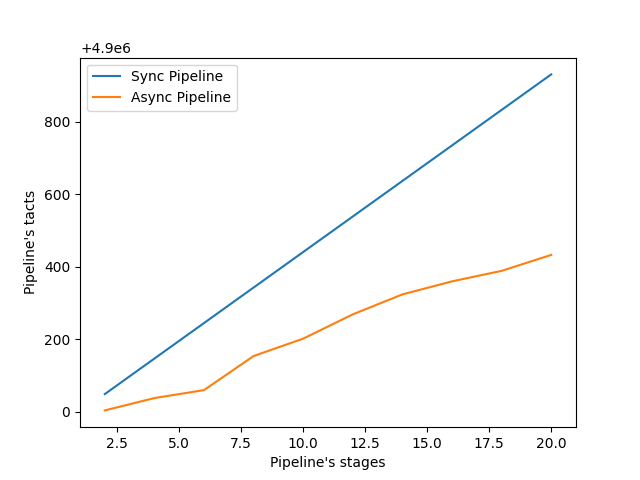
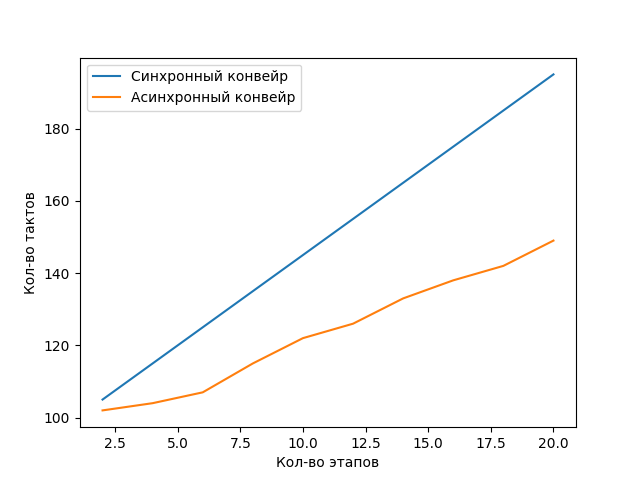
Finished 2nd lab

diff --git a/Sem-2/Lab-2/src/asyncConv_v3.py b/Sem-2/Lab-2/src/asyncConv_v3.py
@@ -1,145 +1,93 @@
 #!/usr/bin/env python3
+import random
+import datetime
+import matplotlib.pyplot as plt
 
-int main(int argc, char **argv) {
-  int i = 0;
+min_time = 1
+max_time = 5
+items_count = 20
+j = 0
 
-  long int tact = 1;
+random.seed(datetime.datetime.now)
+stages = [cnt for cnt in range(2,22,2)]
+pipeline_times = [0 for cnt in range(30)]
+pipeTimeArr = [[0 for cnt in range(10)] for cnt in range(2)]
 
-  long int last_tact = tact;
+for pipeline_length in range(2, 22, 2):
+	tact = 1
+	last_tact = tact
+	items_complete = 0
+	async_pipeline_time = 0
+	last_items_complete = 0
+	items_left = items_count
+	slowly_pipeline_step_time = 0
 
-  int min_time = 1;
-  int max_time = 50;
+	for i in range(pipeline_length):
+		pipeline_times[i] = random.randint(min_time, max_time)
+		if pipeline_times[i] > slowly_pipeline_step_time:
+			slowly_pipeline_step_time = pipeline_times[i]
 
-  int pipeline_length = argv[1] ? atoi(argv[1]) : 5;
-  if (pipeline_length <= 0) return 253;
+	sync_pipeline_time = slowly_pipeline_step_time * (pipeline_length + items_count - 1)
+	pipeline_status = [[0 for cnt in range(pipeline_length)] for cnt in range(2)]
 
-  long int items_count = 100000;
+	for i in range(pipeline_length):
+		pipeline_status[0][i] = -1
+		pipeline_status[1][i] = 0
 
-  long int items_left = items_count;
+	while (True):
+		if (last_items_complete != items_complete):
+			async_pipeline_time += tact - last_tact
+			last_tact = tact
+			last_items_complete = items_complete
 
-  long int items_complete = 0;
 
+		if (items_complete == items_count):
+			break
+		if (pipeline_length == 1):
+			if (pipeline_status[0][0] <= 0 and not pipeline_status[1][0] and items_left):
+				--items_left
+				pipeline_status[0][0] = pipeline_times[0] - 1
+				pipeline_status[1][0] = 1
+			if (pipeline_status[0][0] <= 0 and pipeline_status[1][0]):
+				++items_complete
+				pipeline_status[1][0] = 0
+		else:
+			for i in range(pipeline_length - 1, -1, -1):
+				if (i == 0):
+					if (pipeline_status[0][i] <= 0 and not pipeline_status[1][i] and items_left):
+						--items_left
+						pipeline_status[0][i] = pipeline_times[i] - 1
+						pipeline_status[1][i] = 1
+				elif (i == pipeline_length - 1):
 
-  long int last_items_complete = 0;
+					if (pipeline_status[0][i] <= 0 and pipeline_status[1][i]):
+						items_complete += 1
+						pipeline_status[1][i] = 0
 
+					if (not pipeline_status[1][i]):
+						if (pipeline_status[0][i - 1] <= 0 and pipeline_status[1][i - 1]):
+							pipeline_status[1][i - 1] = 0
+							pipeline_status[1][i] = 1
+							pipeline_status[0][i] = pipeline_times[i]
+				else:
+					if (not pipeline_status[1][i]):
+						if (pipeline_status[0][i - 1] <= 0 and pipeline_status[1][i - 1]):
+							pipeline_status[1][i - 1] = 0
+							pipeline_status[1][i] = 1
+							pipeline_status[0][i] = pipeline_times[i]
 
-  long int slowly_pipeline_step_time = 0;
+		for i in range(pipeline_length):
+			pipeline_status[0][i]-=1
+		tact+=1
 
-  long int sync_pipeline_time = 0;
-  long int async_pipeline_time = 0;
+	print(pipeline_length, "\t", sync_pipeline_time, "\t", async_pipeline_time)
+	pipeTimeArr[0][j] = sync_pipeline_time
+	pipeTimeArr[1][j] = async_pipeline_time
+	j += 1
 
-  long int diff_pipeline_time = 0;
-
-  long int *pipeline_times = NULL;
-  pipeline_times = (long int *)malloc(pipeline_length * sizeof(long int));
-  typedef struct pipeline_state {
-
-    int state;
-  } pipeline_state_t;
-
-  pipeline_state_t *pipeline_status = NULL;
-
-  if (!pipeline_times) return 255;
-
-  for (i = 0; i < pipeline_length; ++i) {
-    pipeline_times[i] = rand() % (max_time - min_time) + min_time;
-    slowly_pipeline_step_time = pipeline_times[i] > slowly_pipeline_step_time
-                                    ? pipeline_times[i]
-                                    : slowly_pipeline_step_time;
-  }
-
-  sync_pipeline_time =
-      slowly_pipeline_step_time * (pipeline_length + items_count - 1);
-  fprintf(stdout, "Sync pipeline time: %ld\n", sync_pipeline_time);
-  pipeline_status =
-      (pipeline_state_t *)malloc(pipeline_length * sizeof(pipeline_state_t));
-  if (!pipeline_status) return 254;
-  for (i = 0; i < pipeline_length; ++i) {
-    pipeline_status[i].ttl = -1;
-    pipeline_status[i].state = 0;
-  }
-
-  while (1) {
-
-    if (last_items_complete ^ items_complete) {
-
-      async_pipeline_time += tact - last_tact;
-      last_tact = tact;
-      last_items_complete = items_complete;
-    }
-
-    if (!(items_complete ^ items_count)) break;
-
-    if (pipeline_length == 1) {
-
-      if (pipeline_status[0].ttl <= 0 && !pipeline_status[0].state &&
-          items_left) {
-        --items_left;
-
-        pipeline_status[0].ttl = pipeline_times[0] - 1;
-        pipeline_status[0].state = 1;
-      }
-      if (pipeline_status[0].ttl <= 0 && pipeline_status[0].state) {
-        ++items_complete;
-        pipeline_status[0].state = 0;
-      }
-    } else {
-
-      for (i = pipeline_length - 1; i >= 0; --i) {
-        if (i == 0) {
-
-          if (pipeline_status[i].ttl <= 0 && !pipeline_status[i].state &&
-              items_left) {
-            --items_left;
-
-            pipeline_status[i].ttl = pipeline_times[i] - 1;
-            pipeline_status[i].state = 1;
-          }
-        } else if (i == pipeline_length - 1) {
-
-          if (pipeline_status[i].ttl <= 0 && pipeline_status[i].state) {
-            ++items_complete;
-            pipeline_status[i].state = 0;
-          }
-
-          if (!pipeline_status[i].state) {
-            if (pipeline_status[i - 1].ttl <= 0 &&
-                pipeline_status[i - 1].state) {
-              pipeline_status[i - 1].state = 0;
-              pipeline_status[i].state = 1;
-              pipeline_status[i].ttl = pipeline_times[i];
-            }
-          }
-        } else {
-
-          if (!pipeline_status[i].state) {
-            if (pipeline_status[i - 1].ttl <= 0 &&
-                pipeline_status[i - 1].state) {
-              pipeline_status[i - 1].state = 0;
-              pipeline_status[i].state = 1;
-              pipeline_status[i].ttl = pipeline_times[i];
-            }
-          }
-        }
-      }
-    }
-
-    for (i = pipeline_length - 1; i >= 0; --i) {
-      --pipeline_status[i].ttl;
-    }
-    ++tact;
-  }
-
-  fprintf(stdout, "Practical async pipeline time: %ld\n", async_pipeline_time);
-
-  async_pipeline_time = 0;
-  for (i = 0; i < pipeline_length; ++i) {
-    async_pipeline_time += pipeline_times[i];
-  }
-  async_pipeline_time += slowly_pipeline_step_time * (items_count - 1);
-  fprintf(stdout, "Theoretical async pipeline time: %ld\n", async_pipeline_time);
-  diff_pipeline_time = sync_pipeline_time - async_pipeline_time;
-  fprintf(stdout, "Time diff: %ld\n", diff_pipeline_time);
-  fprintf(stderr, "%d\t%ld\t%ld\n", pipeline_length, sync_pipeline_time, async_pipeline_time);
-  return 0;
-}
+plt.plot(stages, pipeTimeArr[0], label="Sync Pipeline")
+plt.plot(stages, pipeTimeArr[1], label="Async Pipeline")
+plt.ylabel("Pipeline's tacts")
+plt.xlabel("Pipeline's stages")
+plt.legend()
+plt.show()

diff --git a/Sem-2/Lab-2/src/asyncConv_v4.py b/Sem-2/Lab-2/src/asyncConv_v4.py
@@ -1,8 +1,8 @@
 #!/usr/bin/env python3
 
 MIN_TIME = 1
-MAX_TIME = 50
-inputData = 100000
+MAX_TIME = 5
+inputData = 20
 
 def syncPipeCalc(pipeSize, pipesTiming, slowestPipe):
 	syncPipeTime = slowestPipe * (pipeSize + inputData - 1)
@@ -17,11 +17,10 @@ def asyncPipeCalc(pipeSize, pipesTiming, slowestPipe):
 
 def drawGraph(y_arr):
 	x_arr = [cnt for cnt in range(2,22,2)]
-	plt.plot(x_arr, y_arr[0], label="Sync Pipeline")
-	plt.plot(x_arr, y_arr[1], label="Async Pipeline")
-	# plt.axis([1, 11, 3000000, 7000000])
-	plt.ylabel("Pipeline's tacts")
-	plt.xlabel("Pipeline's stages")
+	plt.plot(x_arr, y_arr[0], label="Синхронный конвейр")
+	plt.plot(x_arr, y_arr[1], label="Асинхронный конвейр")
+	plt.ylabel("Кол-во тактов")
+	plt.xlabel("Кол-во этапов")
 	plt.legend()
 	plt.show()
 
